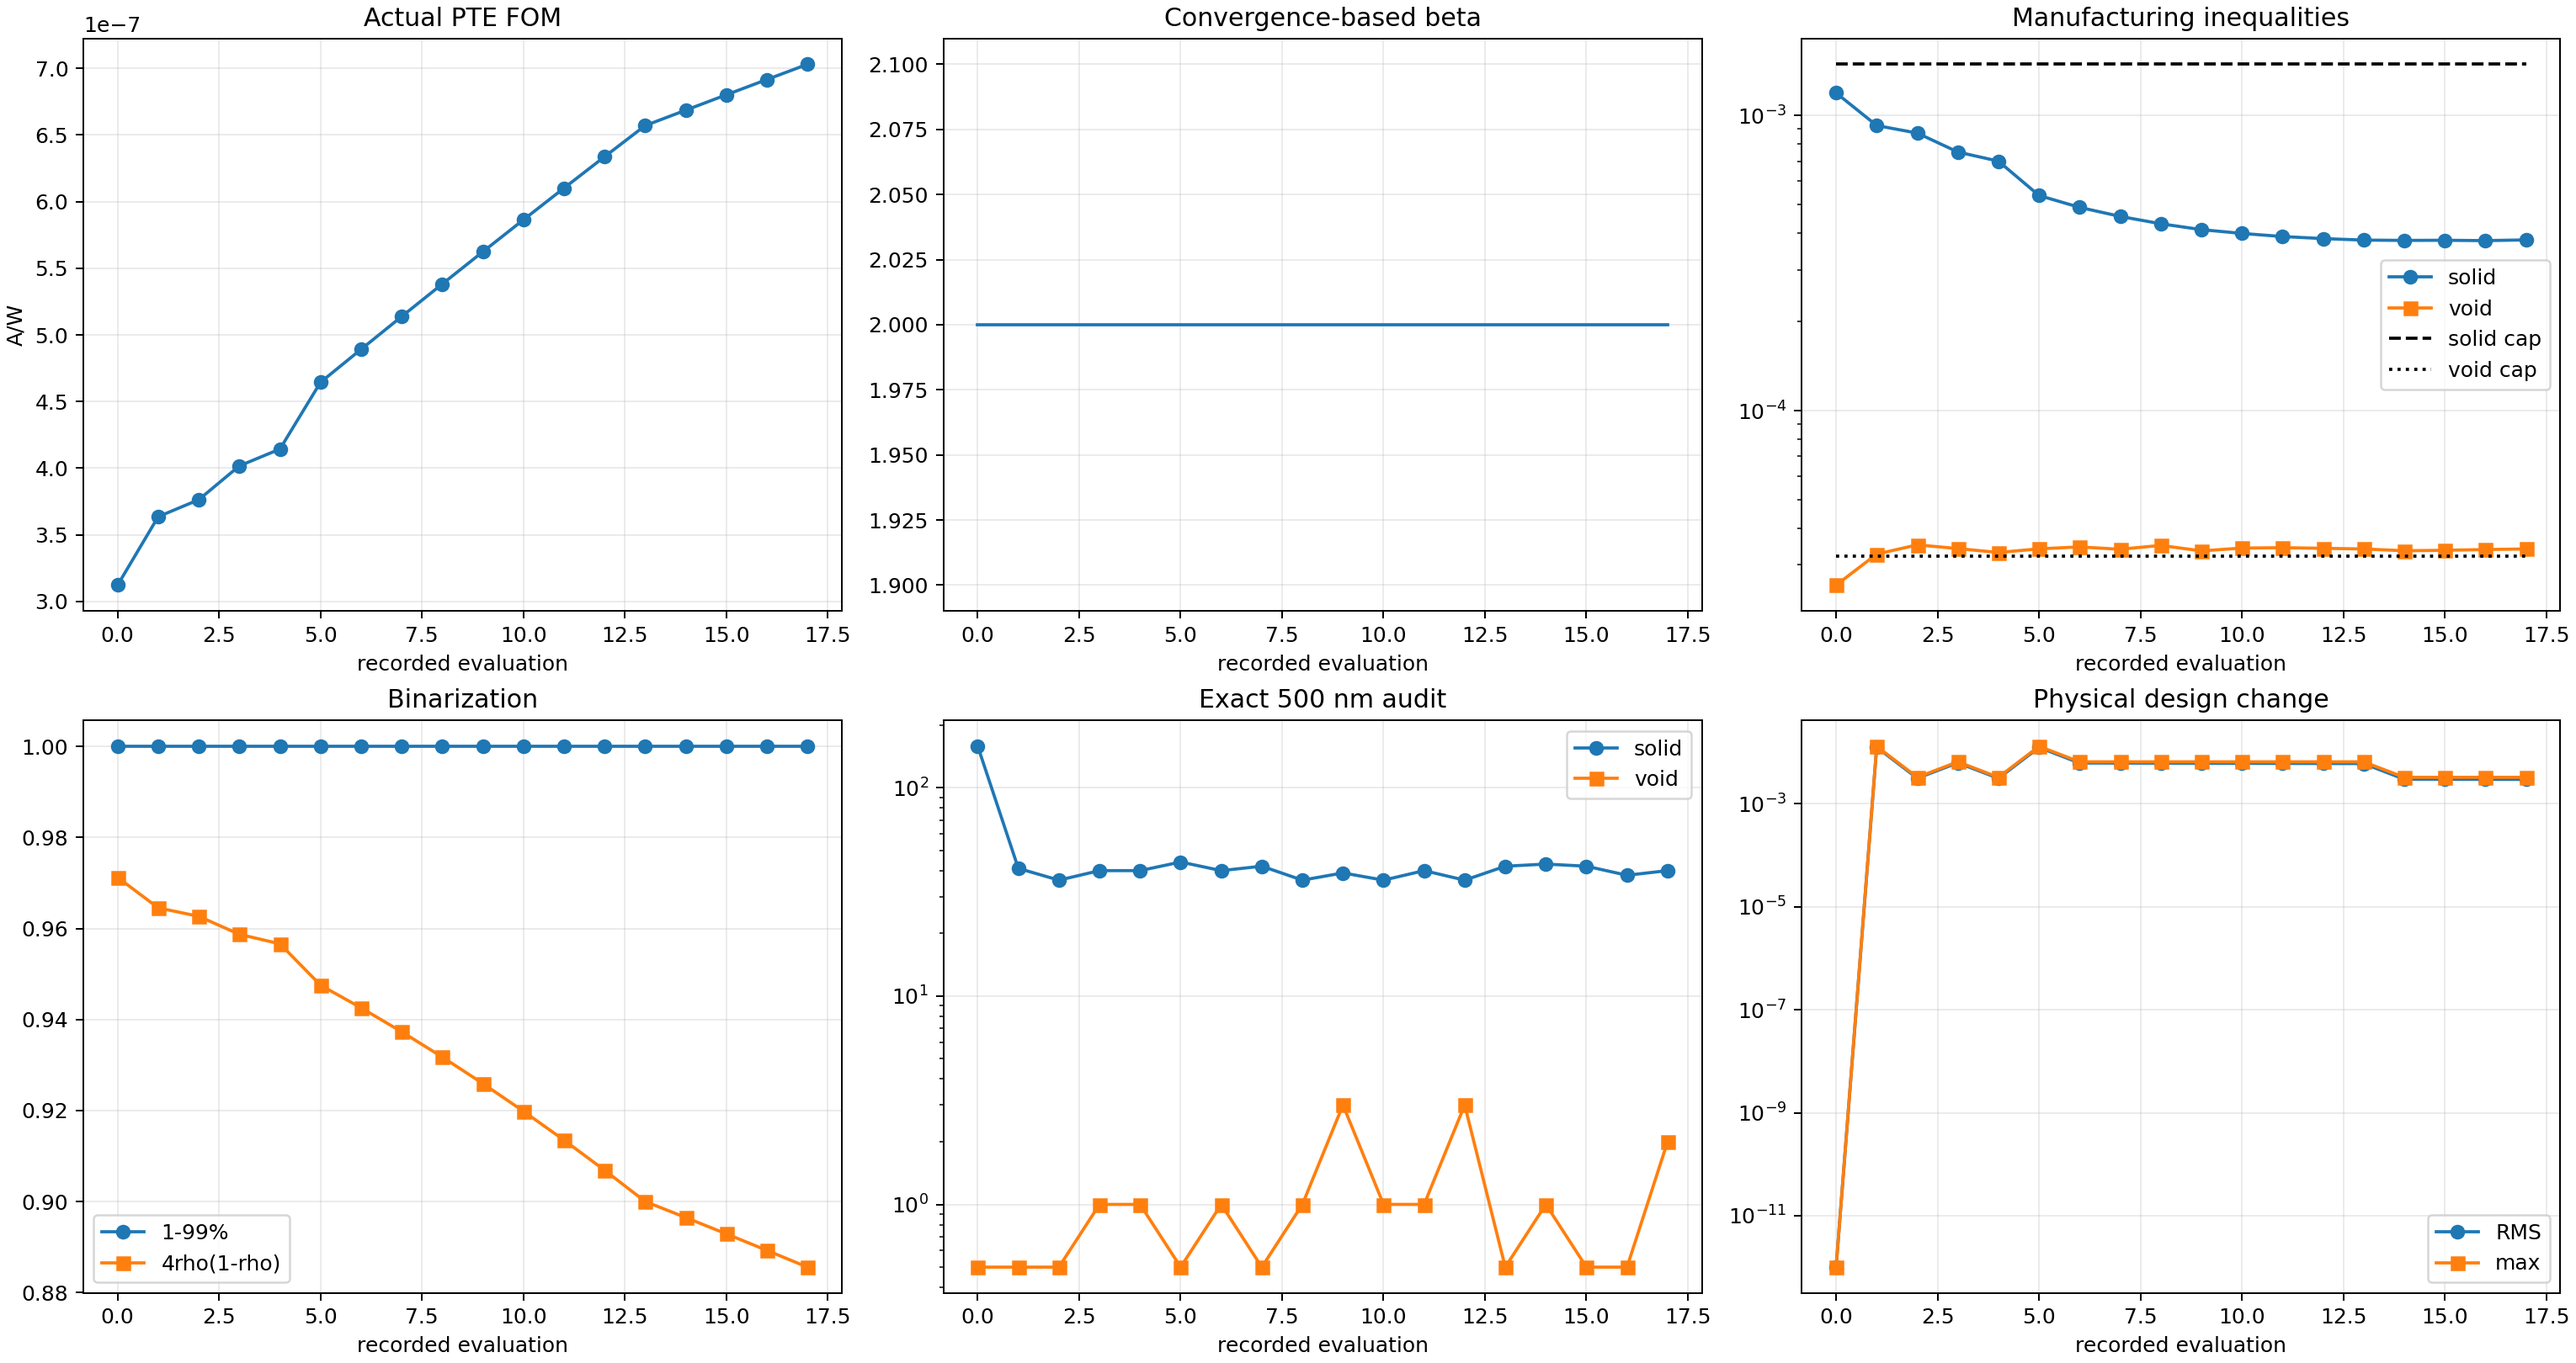
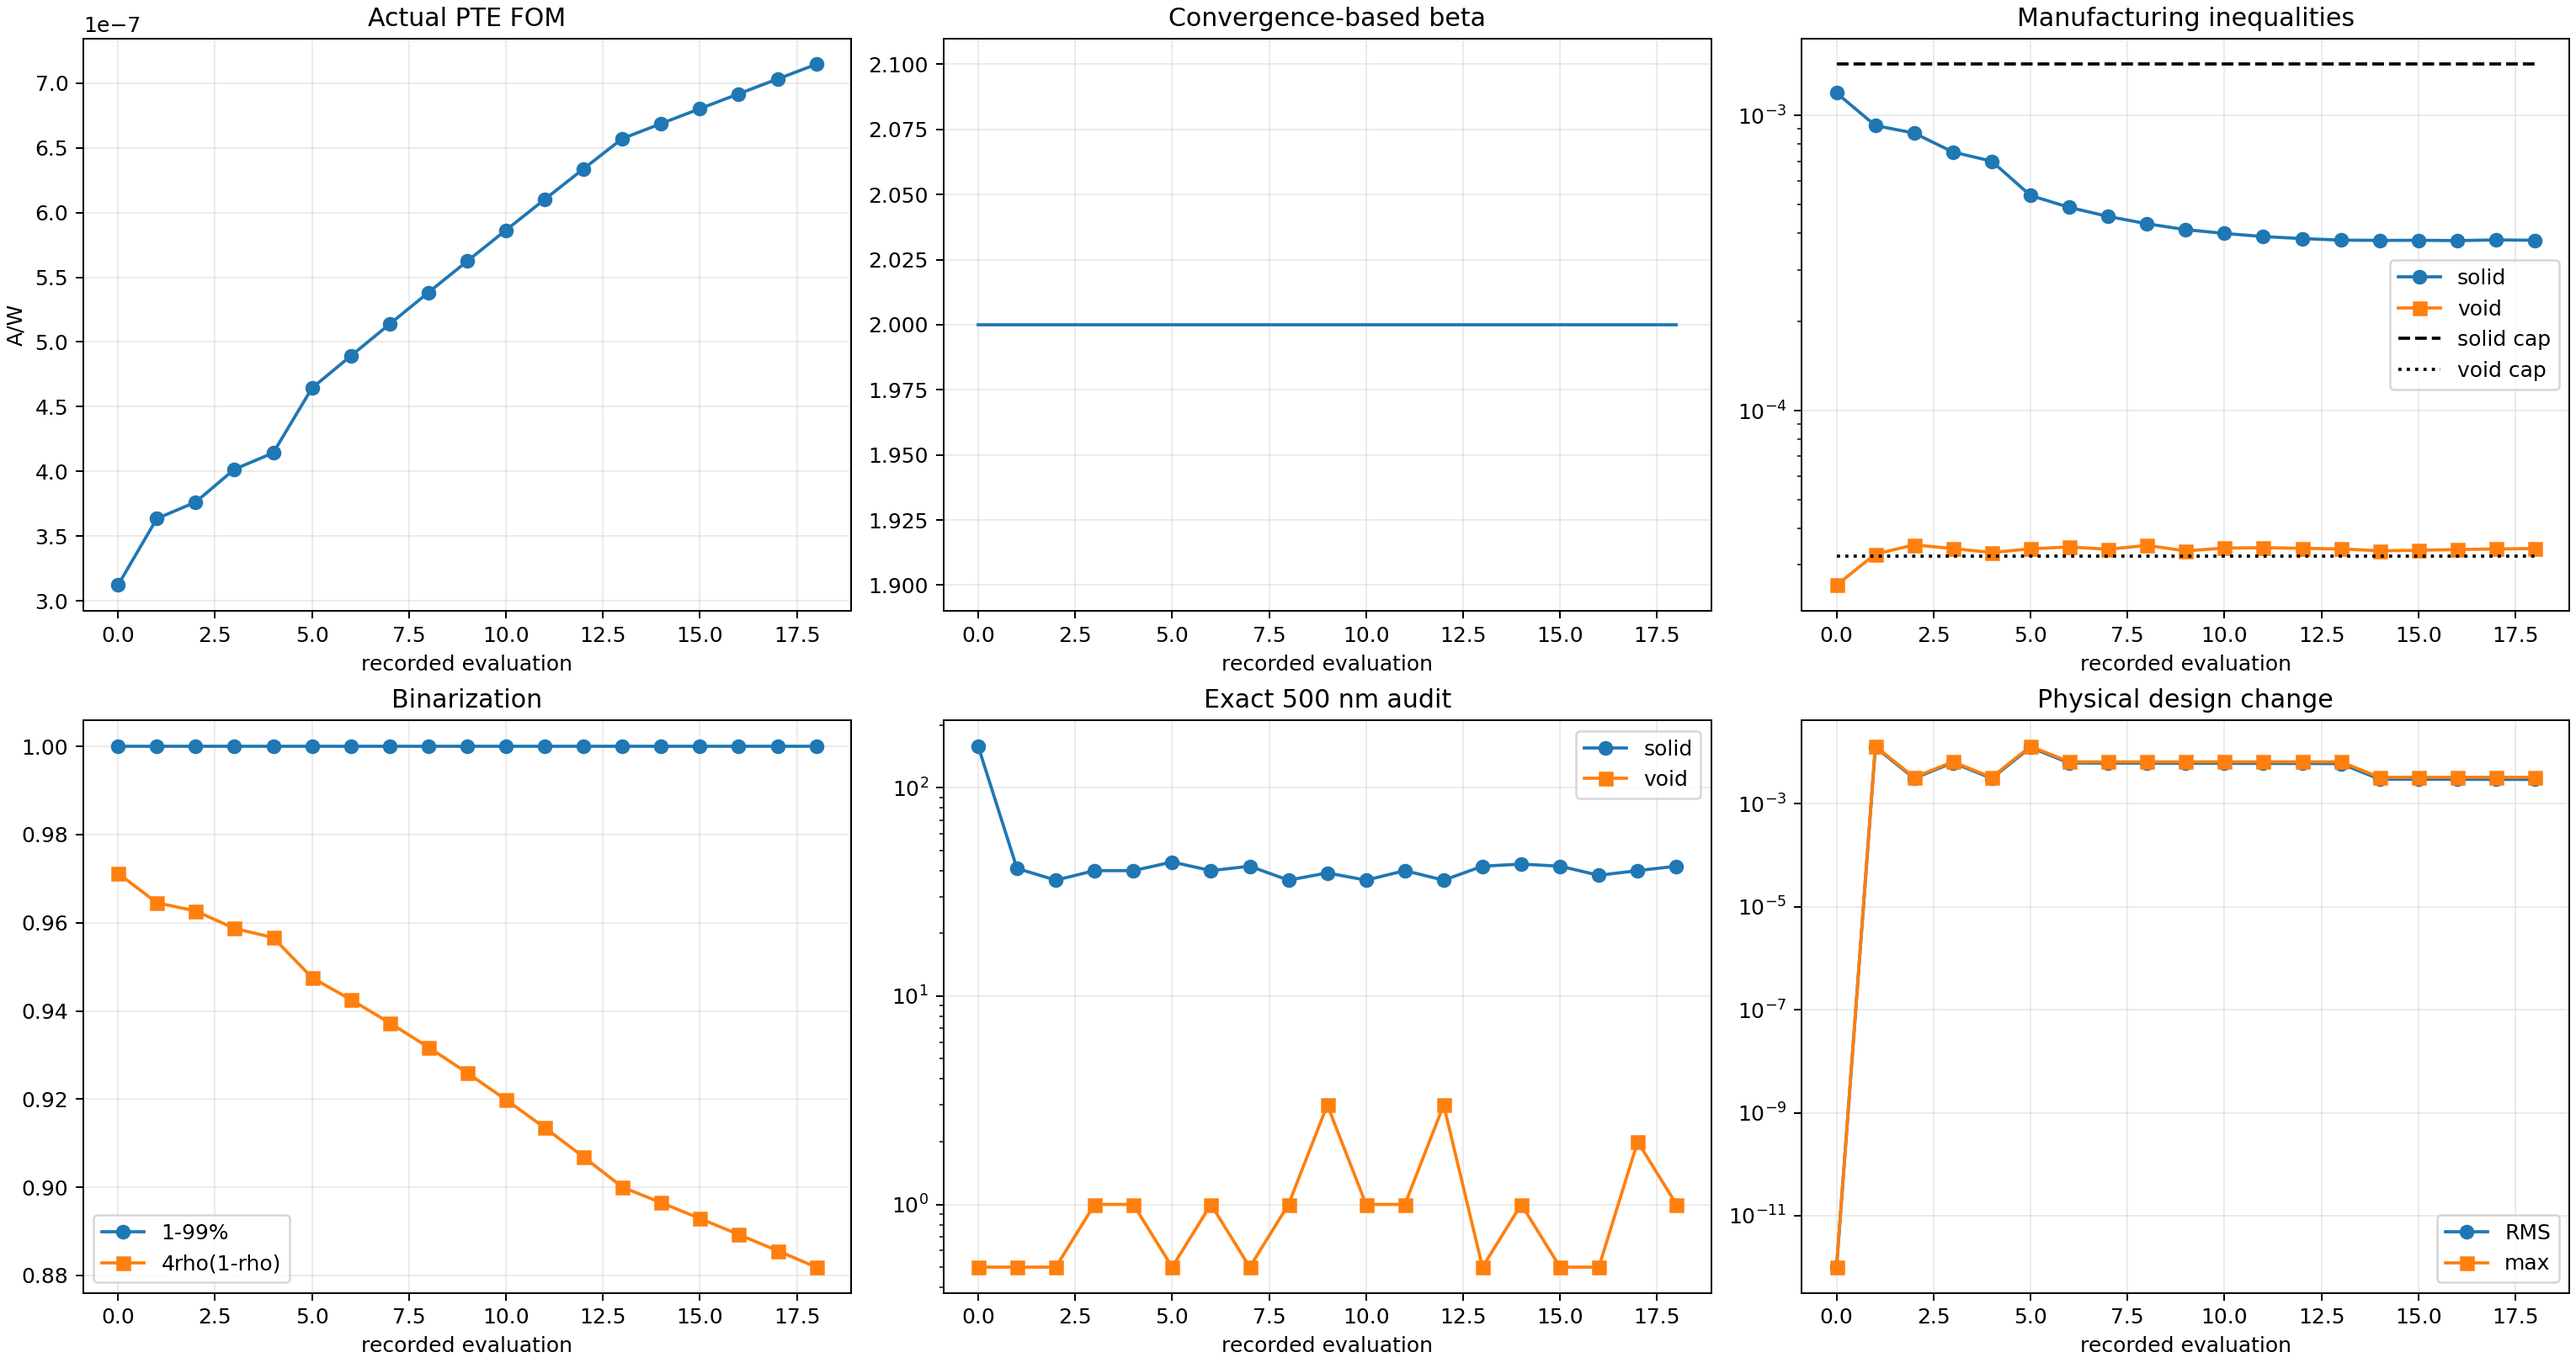
Record Run 005 run008_Ea_b002_s018_g018_accepted_mma

diff --git a/photothermal_pte/optimization_runs/run_008_corrected_Ea_objective_first_constrained/results/OPTIMIZATION_REPORT.md b/photothermal_pte/optimization_runs/run_008_corrected_Ea_objective_first_constrained/results/OPTIMIZATION_REPORT.md
@@ -2,12 +2,12 @@
 
 Status: `RUNNING_CORRECTED_EA_OBJECTIVE_FIRST_CONSTRAINED_OPTIMIZATION`
 
-Current stage: beta=2, accepted stage iteration=17, global iteration=17.
+Current stage: beta=2, accepted stage iteration=18, global iteration=18.
 
 Constraint contract: `soft_disk_opening_500nm_from_iteration_zero_v5`.
 
-Actual FOM: `7.030256538518e-07 A/W`. Fixed-cap solid/void constraints: `3.788392e-04` / `3.398885e-05` with caps `1.490220e-03` / `3.204288e-05`.
+Actual FOM: `7.143817534375e-07 A/W`. Fixed-cap solid/void constraints: `3.777946e-04` / `3.410059e-05` with caps `1.490220e-03` / `3.204288e-05`.
 
-Exact 500 nm bad cells: solid `40`, void `2`. Stage convergence: `False` (fixed solid/void inequalities are not feasible).
+Exact 500 nm bad cells: solid `42`, void `1`. Stage convergence: `False` (recent FOM/density changes have not plateaued).
 
 Beta advances only after the stage FOM/density plateau. The run is not complete until the projected-binary and exact 500 nm gates pass and a fresh thresholded-binary GPU/CUDA evaluation succeeds.
